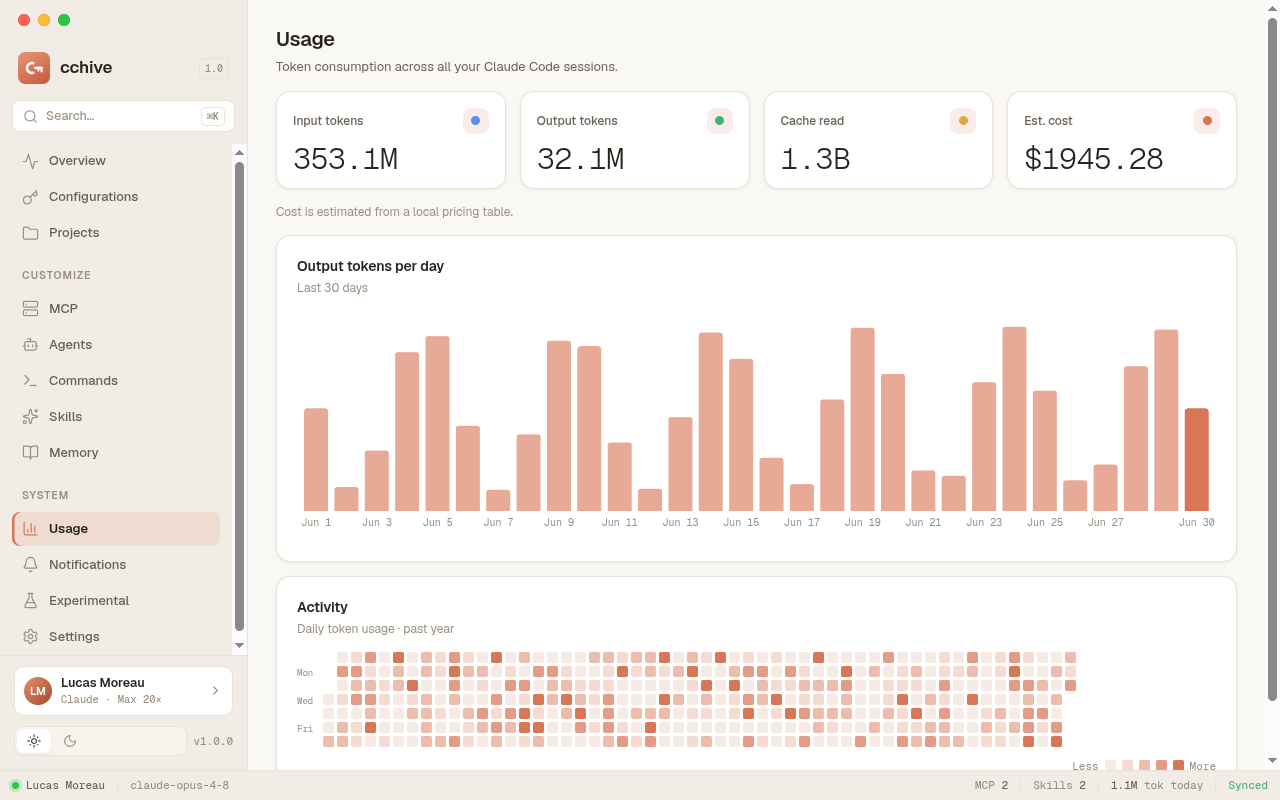
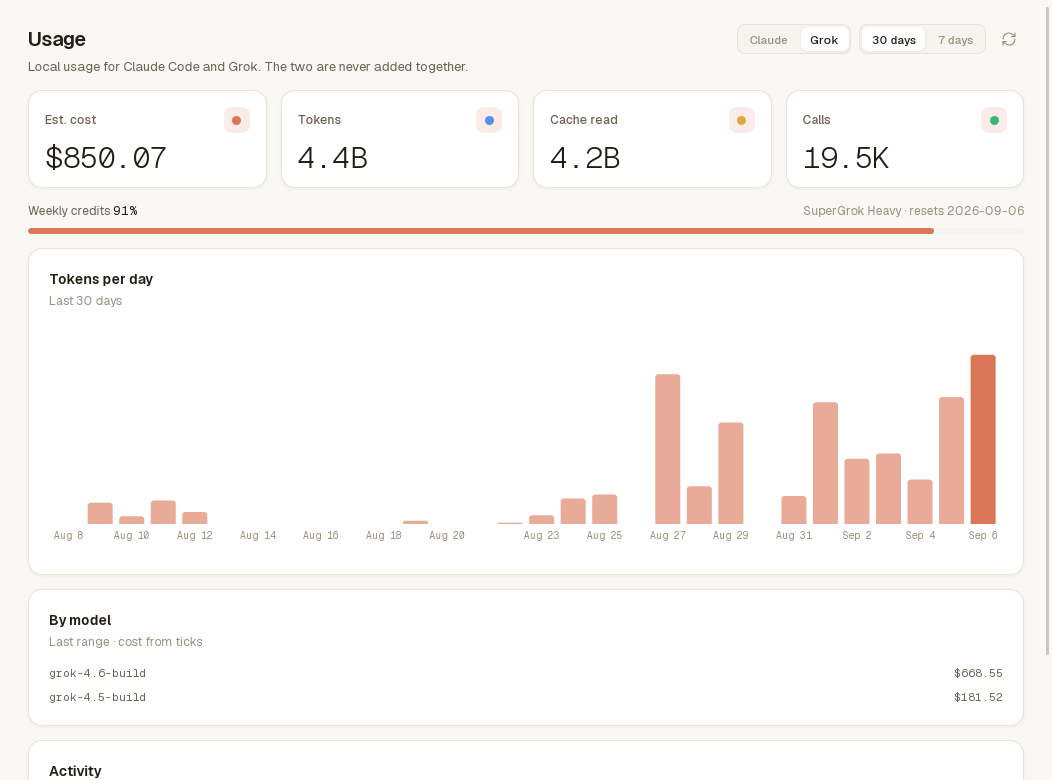
fix: show the Usage Grok pane instead of covering it
ScreenHeader painted over the absolutely positioned Claude|Grok and 30/7 radios in the native WebView, so the Grok pane existed in tests but could not be selected. The header is a flex row. Weekly credits render as a percent bar. pkgrel 8.

diff --git a/src/screens/usage/index.tsx b/src/screens/usage/index.tsx
@@ -1,15 +1,13 @@
 /**
- * Usage screen — token consumption parsed from the local Claude Code session
- * logs (`~/.claude/projects/**`), served by the {@link useUsage} query.
+ * Usage screen — local consumption for Claude (projects jsonl via
+ * {@link useUsage}) or Grok (session updates.jsonl via {@link useGrokUsage}).
+ * The two series are never added together.
  *
- * Header (sticky) carries a 30/7-day range {@link SegmentedControl} and a
- * refresh {@link IconButton} that re-parses the logs on demand. Below: four
- * {@link StatTile}s (input/output/cache-read totals + an estimated cost) each
- * flagged by a semantic colored dot and rendered in Geist-Mono numerals; an
- * "Output tokens per day" {@link OutputBars} chart for the active range; and an
- * "Activity" {@link Heatmap} of the trailing year. Loading shows a quiet state;
- * an empty history flows through naturally as zeros + an empty grid. Styling is
- * token-only — the dots use the semantic tokens, everything else the accent.
+ * Header (sticky flex row) carries Claude|Grok, a 30/7-day range
+ * {@link SegmentedControl}, and a refresh {@link IconButton}. Claude branch:
+ * four tiles (input/output/cache-read/est-cost) + output-per-day + heatmap.
+ * Grok branch: est-cost/tokens/cache-read/calls + weekly credit bar + tokens
+ * per day + per-model + heatmap.
  */
 import { useState } from "react";
 import { useTranslation } from "react-i18next";
@@ -23,7 +21,7 @@ import { Heatmap } from "@/ui/charts/Heatmap";
 import { OutputBars } from "@/ui/charts/OutputBars";
 import { Loader, Refresh } from "@/ui/icons";
 import { useGrokUsage, useUsage } from "@/lib/queries";
-import type { DayPoint, GrokUsageSummary } from "@/lib/types";
+import type { DayPoint, GrokCredits, GrokUsageSummary } from "@/lib/types";
 
 type Range = "30" | "7";
 type Agent = "claude" | "grok";
@@ -97,15 +95,97 @@ function grokDaysAsOutput(summary: GrokUsageSummary): DayPoint[] {
   }));
 }
 
-function creditLine(summary: GrokUsageSummary): string | null {
-  const c = summary.credits;
-  if (!c) return null;
-  const pct = Number.isFinite(c.percent) ? `${c.percent.toFixed(0)}%` : "—";
-  const tier = c.subscriptionTier ?? "";
-  const end = c.periodEnd ? c.periodEnd.slice(0, 10) : "";
-  const parts = [pct, tier, end ? `resets ${end}` : ""].filter(Boolean);
-  const stale = (c.ageMinutes ?? 0) > 45 ? " · stale" : "";
-  return parts.join(" · ") + stale;
+/** Weekly Grok credit bar. Missing billing → a one-liner, not a fake 0%. */
+function CreditReadout({ credits }: { credits: GrokCredits | null }) {
+  if (!credits) {
+    return (
+      <div
+        style={{
+          fontFamily: "var(--font-sans)",
+          fontSize: "var(--fs-body-sm)",
+          color: "var(--text-3)",
+        }}
+      >
+        Weekly credit percent is unavailable until grok fetches billing.
+      </div>
+    );
+  }
+  const pct = Number.isFinite(credits.percent) ? credits.percent : 0;
+  const clamped = Math.max(0, Math.min(100, pct));
+  const stale = (credits.ageMinutes ?? 0) > 45;
+  const end = credits.periodEnd ? credits.periodEnd.slice(0, 10) : "";
+  const meta = [
+    credits.subscriptionTier,
+    end ? `resets ${end}` : "",
+    stale ? "stale" : "",
+  ]
+    .filter(Boolean)
+    .join(" · ");
+  return (
+    <div
+      role="meter"
+      aria-label="Weekly Grok credits"
+      aria-valuemin={0}
+      aria-valuemax={100}
+      aria-valuenow={Math.round(clamped)}
+      style={{ display: "flex", flexDirection: "column", gap: 8 }}
+    >
+      <div
+        style={{
+          display: "flex",
+          justifyContent: "space-between",
+          alignItems: "baseline",
+          gap: "var(--space-3)",
+        }}
+      >
+        <span
+          style={{
+            fontFamily: "var(--font-sans)",
+            fontSize: "var(--fs-body-sm)",
+            color: "var(--text-2)",
+          }}
+        >
+          Weekly credits{" "}
+          <span
+            style={{
+              fontFamily: "var(--font-mono)",
+              fontSize: "var(--fs-mono)",
+              color: "var(--text)",
+            }}
+          >
+            {pct.toFixed(0)}%
+          </span>
+        </span>
+        <span
+          style={{
+            fontFamily: "var(--font-sans)",
+            fontSize: "var(--fs-body-sm)",
+            color: stale ? "var(--warning)" : "var(--text-3)",
+          }}
+        >
+          {meta}
+        </span>
+      </div>
+      <div
+        aria-hidden
+        style={{
+          height: 6,
+          borderRadius: "var(--radius-pill)",
+          background: "var(--surface-2)",
+          overflow: "hidden",
+        }}
+      >
+        <div
+          style={{
+            width: `${clamped}%`,
+            height: "100%",
+            background: stale ? "var(--warning)" : "var(--accent)",
+            borderRadius: "var(--radius-pill)",
+          }}
+        />
+      </div>
+    </div>
+  );
 }
 
 export function UsageScreen() {
@@ -134,28 +214,35 @@ export function UsageScreen() {
         overflow: "auto",
       }}
     >
-      {/* Sticky header: title/one-liner + range toggle + refresh. The sticky
-          element is the absolute containing block for the controls cluster. */}
+      {/* Flex header, not an absolute overlay: ScreenHeader's opaque sticky
+          layer paints on top of absolute siblings in WebKitGTK, so the
+          Claude|Grok radios existed in the DOM but could not be seen or
+          clicked in the native app. Collection uses the same row. */}
       <div
         style={{
           position: "sticky",
           top: 0,
           zIndex: 6,
           background: "var(--app-bg)",
+          display: "flex",
+          alignItems: "flex-start",
+          justifyContent: "space-between",
+          gap: "var(--space-3)",
         }}
       >
-        <ScreenHeader
-          title={t("header.usage.title")}
-          description={t("header.usage.description")}
-        />
+        <div style={{ flex: 1, minWidth: 0 }}>
+          <ScreenHeader
+            title={t("header.usage.title")}
+            description={t("header.usage.description")}
+          />
+        </div>
         <div
           style={{
-            position: "absolute",
-            top: "var(--space-6)",
-            right: "var(--gutter)",
             display: "inline-flex",
             alignItems: "center",
             gap: "var(--space-2)",
+            padding: "var(--space-6) var(--gutter) 0 0",
+            flexShrink: 0,
           }}
         >
           <SegmentedControl<Agent>
@@ -242,16 +329,7 @@ export function UsageScreen() {
                 icon={<Dot color="var(--success)" />}
               />
             </div>
-            <div
-              style={{
-                fontFamily: "var(--font-sans)",
-                fontSize: "var(--fs-body-sm)",
-                color: "var(--text-3)",
-              }}
-            >
-              {creditLine(grokData) ??
-                "Weekly credit percent is unavailable until grok fetches billing."}
-            </div>
+            <CreditReadout credits={grokData.credits} />
             <Card>
               <CardHeading
                 title="Tokens per day"

diff --git a/src/screens/usage/Usage.test.tsx b/src/screens/usage/Usage.test.tsx
@@ -196,9 +196,32 @@ describe("UsageScreen", () => {
     expect(screen.getByText("4.2M")).toBeInTheDocument();
     expect(screen.getByText("$12.50")).toBeInTheDocument();
     expect(screen.getByText("grok-4.6-build")).toBeInTheDocument();
-    expect(screen.getByText(/73% · SuperGrok Heavy/)).toBeInTheDocument();
+    expect(screen.getByText("73%")).toBeInTheDocument();
+    expect(screen.getByText(/SuperGrok Heavy/)).toBeInTheDocument();
+    expect(screen.getByRole("meter", { name: "Weekly Grok credits" })).toBeInTheDocument();
     expect(screen.queryByText("Input tokens")).not.toBeInTheDocument();
     expect(screen.queryByText("84.2M")).not.toBeInTheDocument();
     expect(screen.queryByText("$128.40")).not.toBeInTheDocument();
+  });
+
+  it("shows the Claude|Grok toggle on the default Claude view", async () => {
+    renderScreen();
+    await screen.findByText("Input tokens");
+    expect(screen.getByRole("radio", { name: "Grok" })).toBeInTheDocument();
+    expect(screen.getByRole("radio", { name: "Claude" })).toBeInTheDocument();
+    expect(screen.getByRole("radio", { name: "7 days" })).toBeInTheDocument();
+  });
+
+  it("labels Grok credits stale when ageMinutes is over 45", async () => {
+    const user = userEvent.setup();
+    (ipc.readGrokUsage as Mock).mockResolvedValue({
+      ...GROK_SUMMARY,
+      credits: { ...GROK_SUMMARY.credits!, ageMinutes: 80 },
+    });
+    renderScreen();
+    await screen.findByText("Input tokens");
+    await user.click(screen.getByRole("radio", { name: "Grok" }));
+    expect(await screen.findByText(/stale/)).toBeInTheDocument();
+    expect(screen.getByText("73%")).toBeInTheDocument();
   });
 });

diff --git a/README.md b/README.md
@@ -64,7 +64,7 @@ your local usage — all on your machine, nothing leaving your device. It runs a
 
 ![Configurations](docs/images/configurations.png)
 
-**Usage** — local token usage, per day and per model, with a cost estimate:
+**Usage** — Claude or Grok (never mixed); Grok also shows the weekly credit percent:
 
 ![Usage](docs/images/usage.png)
 
